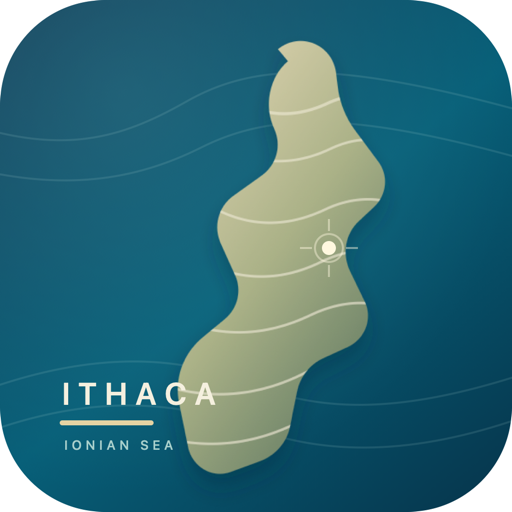
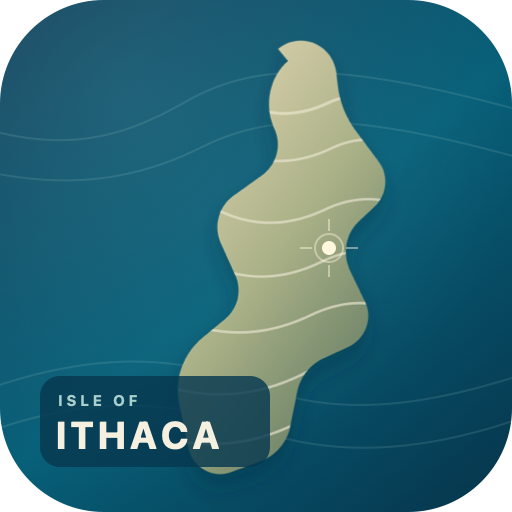
Redesign launcher as Isle of Ithaca

Changed region(s): [[0.0625, 0.7188, 0.5312, 0.9375]]

diff --git a/public/app.css b/public/app.css
@@ -14,7 +14,7 @@ html.ithacus-zoom-locked, html.ithacus-zoom-locked body { touch-action: pan-x pa
 body {
   min-height: 100vh;
   min-height: 100dvh;
-  background: #f4f7f5;
+  background: linear-gradient(180deg, #edf3f1 0%, #f7f8f7 42%, #f4f7f5 100%);
 }
 
 button { font: inherit; letter-spacing: 0; }
@@ -32,7 +32,7 @@ button { font: inherit; letter-spacing: 0; }
   gap: 16px;
 }
 
-.topbar { padding-bottom: 48px; }
+.topbar { padding-bottom: 44px; }
 
 .eyebrow, .section-label {
   margin: 0 0 5px;
@@ -40,6 +40,12 @@ button { font: inherit; letter-spacing: 0; }
   font-size: 12px;
   font-weight: 700;
   text-transform: uppercase;
+}
+
+.eyebrow {
+  color: #075f78;
+  font-size: 15px;
+  letter-spacing: .08em;
 }
 
 h1 { margin: 0; font-size: 30px; line-height: 1; }
@@ -62,7 +68,7 @@ h2 { margin: 0; font-size: 21px; }
   box-shadow: 0 0 0 4px #d9eee7;
 }
 
-.overview { margin-bottom: 18px; }
+.overview { margin-bottom: 26px; }
 
 .stop-button {
   border: 1px solid #ccd5d1;
@@ -75,42 +81,50 @@ h2 { margin: 0; font-size: 21px; }
 
 .app-grid {
   display: grid;
-  grid-template-columns: repeat(3, minmax(0, 1fr));
-  gap: 14px;
+  grid-template-columns: repeat(4, minmax(0, 1fr));
+  gap: 34px 24px;
 }
 
 .app-tile {
-  min-height: 180px;
-  padding: 18px;
-  border: 1px solid #d8dfdc;
-  border-radius: 8px;
-  background: #fff;
+  position: relative;
+  min-width: 0;
+  padding: 0;
+  border: 0;
+  background: transparent;
   color: inherit;
   text-decoration: none;
-  text-align: left;
+  text-align: center;
   cursor: pointer;
-  transition: border-color 160ms ease, box-shadow 160ms ease, transform 160ms ease;
+  -webkit-tap-highlight-color: transparent;
+  transition: transform 160ms ease, opacity 160ms ease;
 }
 
-.app-tile:hover { border-color: #9daca6; box-shadow: 0 10px 28px rgba(34, 52, 45, 0.08); transform: translateY(-2px); }
+.app-tile:hover { transform: translateY(-3px); }
+.app-tile:active { transform: scale(.96); }
 .app-tile:disabled { cursor: wait; opacity: 0.65; transform: none; }
 
 .app-icon {
   display: grid;
-  width: 48px;
-  height: 48px;
-  margin-bottom: 26px;
+  width: min(100%, 132px);
+  aspect-ratio: 1;
+  margin: 0 auto 11px;
   place-items: center;
-  border-radius: 8px;
-  background: var(--accent);
+  overflow: hidden;
+  border-radius: 28%;
+  background: var(--icon-bg, var(--accent));
   color: #fff;
-  font-size: 19px;
-  font-weight: 800;
+  box-shadow: 0 13px 28px rgba(29, 46, 40, .16), inset 0 0 0 1px rgba(255, 255, 255, .22);
 }
 
-.app-name { display: block; margin-bottom: 7px; font-size: 17px; font-weight: 760; }
-.app-description { display: block; color: #68756f; font-size: 13px; line-height: 1.45; }
-.app-state { display: block; margin-top: 15px; color: #147d64; font-size: 12px; font-weight: 750; text-transform: capitalize; }
+.app-icon svg { width: 62%; height: 62%; fill: none; stroke: currentColor; stroke-width: 1.8; stroke-linecap: round; stroke-linejoin: round; }
+.app-tile[data-app-id="portfolio"] { --icon-bg: linear-gradient(145deg, #22a77d, #096149); }
+.app-tile[data-app-id="experience"] { --icon-bg: linear-gradient(145deg, #ef8b63, #ad3f26); }
+.app-tile[data-app-id="callumployed"] { --icon-bg: linear-gradient(145deg, #648bdc, #294d9b); }
+.app-tile[data-app-id="nourish"] { --icon-bg: linear-gradient(145deg, #65b984, #237044); }
+
+.app-name { display: block; overflow: hidden; font-size: 14px; font-weight: 690; text-overflow: ellipsis; white-space: nowrap; }
+.app-description { position: absolute; width: 1px; height: 1px; overflow: hidden; clip: rect(0 0 0 0); white-space: nowrap; }
+.app-state { position: absolute; top: -5px; right: calc(50% - 70px); width: 13px; height: 13px; overflow: hidden; border: 2px solid #f3f7f5; border-radius: 50%; background: #22a06b; color: transparent; }
 
 .status-message { min-height: 22px; margin: 18px 0 0; color: #a03d27; font-size: 13px; }
 
@@ -129,14 +143,15 @@ h2 { margin: 0; font-size: 21px; }
 @media (max-width: 720px) {
   .launcher { padding-inline: 16px; }
   .topbar { padding-bottom: 38px; }
-  .app-grid { grid-template-columns: repeat(2, minmax(0, 1fr)); }
-  .app-tile { min-height: 164px; padding: 15px; }
-  .app-icon { margin-bottom: 20px; }
+  .app-grid { gap: 28px 18px; }
+  .app-icon { border-radius: 24%; }
 }
 
 @media (max-width: 430px) {
-  .app-grid { grid-template-columns: 1fr; }
-  .app-tile { min-height: 142px; }
-  .app-icon { margin-bottom: 16px; }
+  .launcher { padding-inline: 20px; }
+  .app-grid { grid-template-columns: repeat(3, minmax(0, 1fr)); gap: 26px 17px; }
+  .app-icon { width: 100%; margin-bottom: 9px; }
+  .app-name { font-size: 12px; }
+  .app-state { right: -3px; }
   .connection { font-size: 12px; }
 }

diff --git a/public/app.js b/public/app.js
@@ -48,6 +48,16 @@ function selectedApp() {
   return state.apps.find((app) => app.id === state.activeAppId) || null;
 }
 
+function appIcon(appId) {
+  const icons = {
+    portfolio: `<svg viewBox="0 0 48 48" aria-hidden="true"><circle cx="24" cy="17" r="7"/><path d="M11 39c1.8-8.2 6.1-12.3 13-12.3S35.2 30.8 37 39"/><path d="M10 9h28v30H10z" opacity=".28"/></svg>`,
+    experience: `<svg viewBox="0 0 48 48" aria-hidden="true"><path d="M10 15h28v24H10z"/><path d="M18 15v-4h12v4M10 23h28M20 23v4h8v-4"/></svg>`,
+    callumployed: `<svg viewBox="0 0 48 48" aria-hidden="true"><path d="M14 8h20v32H14z"/><path d="M19 15h10M19 21h10M19 27h7M19 34h10"/><path d="m29 29 3 3 6-7"/></svg>`,
+    nourish: `<svg viewBox="0 0 48 48" aria-hidden="true"><path d="M24 40V20"/><path d="M24 25C13 25 9 18 10 9c9-1 15 3 16 12M24 30c11 0 15-7 14-16-8-1-14 3-14 12"/><path d="M15 40h18"/></svg>`,
+  };
+  return icons[appId] || `<svg viewBox="0 0 48 48" aria-hidden="true"><rect x="9" y="9" width="30" height="30" rx="8"/><circle cx="24" cy="24" r="5"/></svg>`;
+}
+
 function render() {
   const active = selectedApp();
   setZoomLock(document, active?.id === "nourish");
@@ -59,7 +69,7 @@ function render() {
       : `type="button" data-app-id="${app.id}" ${busy ? "disabled" : ""}`;
     return `
     <${tag} class="app-tile" ${attributes} style="--accent: ${app.accent}">
-      <span class="app-icon" aria-hidden="true">${app.name.slice(0, 1)}</span>
+      <span class="app-icon" aria-hidden="true">${appIcon(app.id)}</span>
       <span class="app-name">${app.name}</span>
       <span class="app-description">${app.description}</span>
       ${app.state !== "stopped" ? `<span class="app-state">${app.state}</span>` : ""}

diff --git a/public/index.html b/public/index.html
@@ -6,18 +6,18 @@
     <meta name="theme-color" content="#075f78" />
     <meta name="apple-mobile-web-app-capable" content="yes" />
     <meta name="apple-mobile-web-app-status-bar-style" content="default" />
-    <meta name="apple-mobile-web-app-title" content="Ithacus" />
+    <meta name="apple-mobile-web-app-title" content="Isle of Ithaca" />
     <link rel="manifest" href="/__ithacus/manifest.webmanifest" />
     <link rel="apple-touch-icon" href="/__ithacus/assets/icon-192.png" />
-    <link rel="stylesheet" href="/__ithacus/assets/app.css?v=7" />
-    <title>Ithacus</title>
+    <link rel="stylesheet" href="/__ithacus/assets/app.css?v=10" />
+    <title>Isle of Ithaca</title>
   </head>
   <body>
     <main class="launcher" id="launcher">
       <header class="topbar">
         <div>
-          <p class="eyebrow">Private workspace</p>
-          <h1>Ithacus</h1>
+          <p class="eyebrow">Isle of Ithaca</p>
+          <h1>Your apps</h1>
         </div>
         <div class="connection" aria-label="Tailnet connected">
           <span></span>
@@ -28,7 +28,7 @@
       <section class="overview">
         <div>
           <p class="section-label">Applications</p>
-          <h2>Choose what runs</h2>
+          <h2>Choose an app</h2>
         </div>
         <button class="stop-button" id="stop-button" type="button" hidden>
           Stop current app
@@ -43,6 +43,6 @@
       <iframe id="app-frame" title="Selected Ithacus application"></iframe>
     </section>
 
-    <script type="module" src="/__ithacus/assets/app.js?v=7"></script>
+    <script type="module" src="/__ithacus/assets/app.js?v=10"></script>
   </body>
 </html>

diff --git a/public/sw.js b/public/sw.js
@@ -1,8 +1,8 @@
-const CACHE = "ithacus-launcher-v9";
+const CACHE = "ithacus-launcher-v10";
 const SHELL = [
-  "/__ithacus/?v=9",
-  "/__ithacus/assets/app.css?v=7",
-  "/__ithacus/assets/app.js?v=7",
+  "/__ithacus/?v=10",
+  "/__ithacus/assets/app.css?v=10",
+  "/__ithacus/assets/app.js?v=10",
   "/__ithacus/manifest.webmanifest",
   "/__ithacus/assets/icon-192.png",
   "/__ithacus/assets/icon-512.png"
